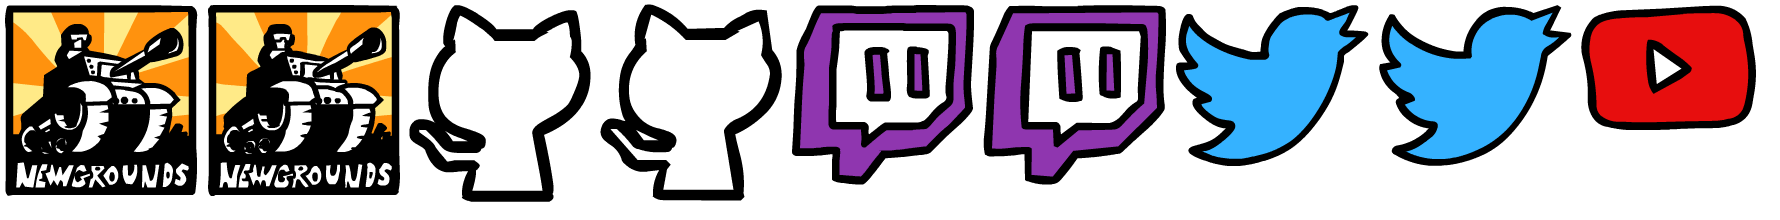
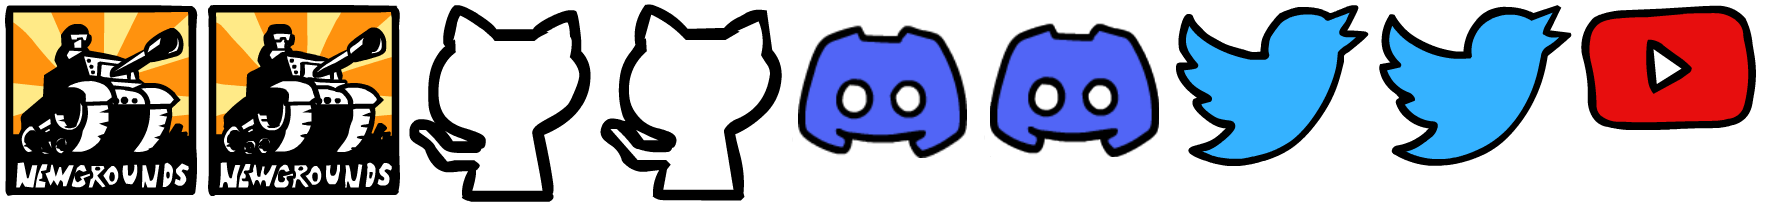
added discord anim :troll:

Changed region(s): [[0.4326, 0.0, 0.6798, 0.8455]]

diff --git a/README.md b/README.md
@@ -19,7 +19,7 @@ A gaming console made in HaxeFlixel. Mostly based on Sega Dreamcast.
 * [ ] Add 10 Games (6/10) **[!!]**
 * [ ] Save Slots **[!!]**
 * [ ] Controller Support **[!!]**
-* [ ] Music Loading with JSON **[??]**
+* [ ] In-Game Crash Handler **[!!]**
 * [X] Account settings
 * [X] Credits with JSON
 
